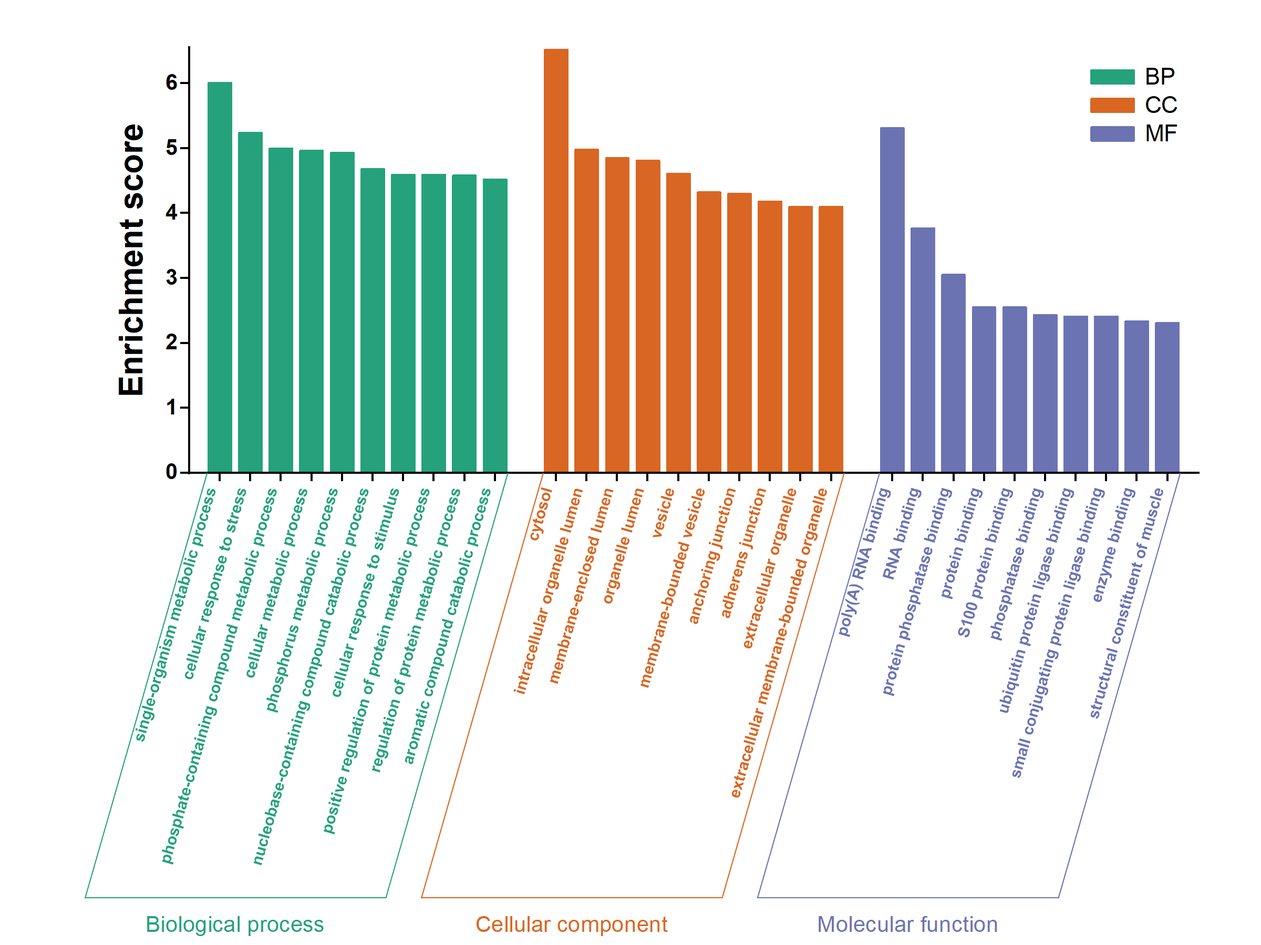
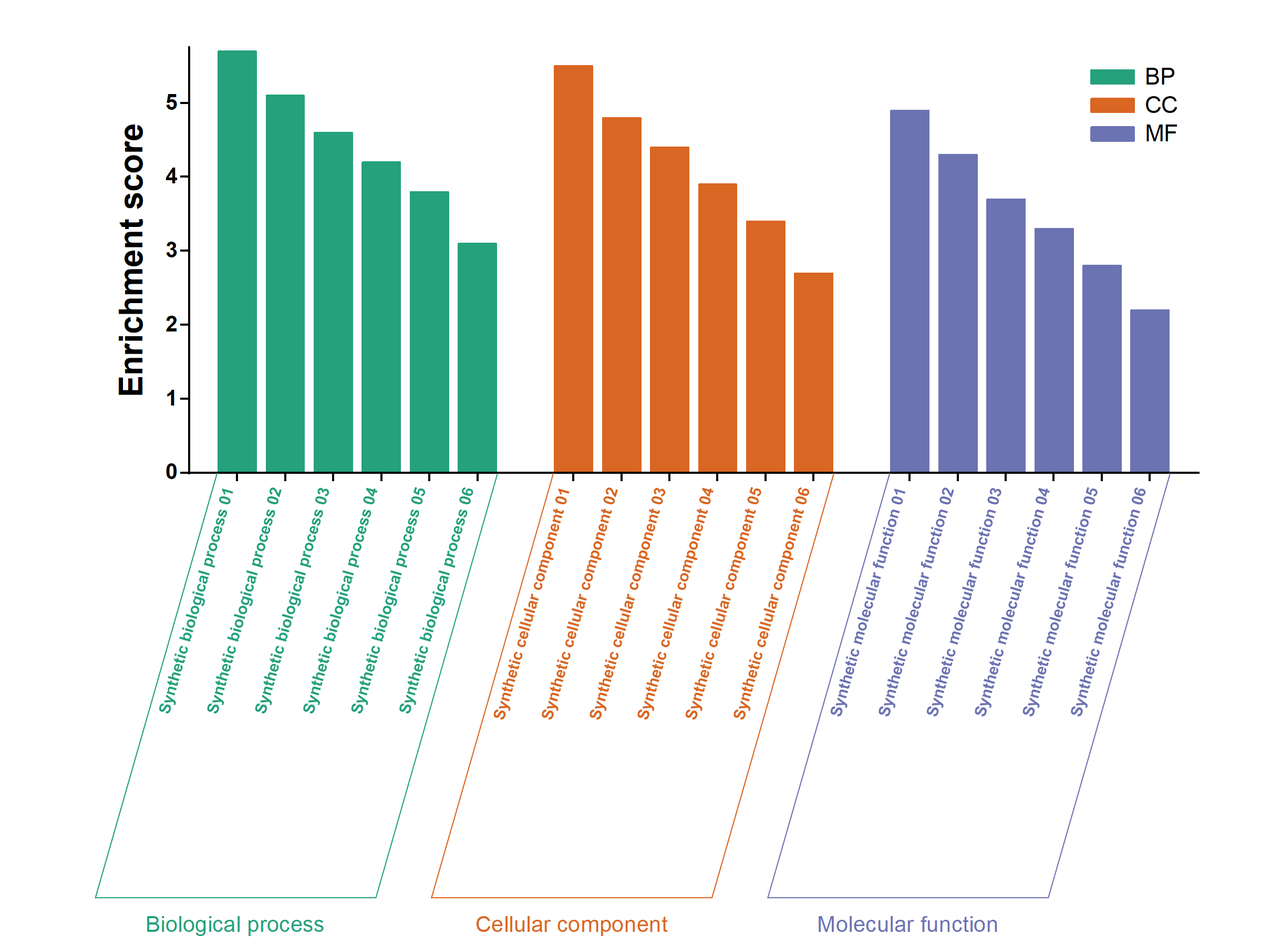
Present general Origin workflows and replace public samples with synthetic data

diff --git a/README.md b/README.md
@@ -1,29 +1,42 @@
 # Origin 可编辑科研作图
 
-把科研数据、参考样式或已有 Origin 图，整理成带有绘图数据、可继续编辑的 Origin / OriginPro 原生项目。
+根据科研数据、参考样式或已有 Origin 项目，创建和修改 **Origin / OriginPro 原生可编辑图**，保留绘图数据，核对数值与样式，并按需要交付独立图页或可在 PowerPoint 中返回 Origin 编辑的对象。
 
 **技能名：`origin-editable-figures`**
 
-![GO enrichment example](examples/go-enrichment/preview.png)
+适用于多种科研图的制作、样式复现和后续编辑。GO 分组柱形图是仓库中的一个可运行示例；技能的工作范围由当前数据、图型和交付要求决定。
 
-## 能做什么
+## 适用任务
 
-- 根据数据和参考图创建原生可编辑图，分别调整数据点、线、误差线、坐标轴、图例和文字。
-- 整理 PCA、t-SNE、UMAP 等科研图，核对坐标、分组、配色与数据来源。
-- 将选定图页拆成独立 OPJU，携带必要数据，并保留已有样式。
-- 按任务需要处理 Origin → PowerPoint 的 OLE 嵌入与回写核验。
-- 保存后重新打开，核验数据绑定并从 Origin 导出预览。
+| 任务 | 提供什么 | 技能处理的重点 |
+| --- | --- | --- |
+| 根据数据和参考图作图 | 数据表、参考图片或原生项目、所需样式 | 核对列和单位，选择原生图型，调整坐标轴、配色、图例和文字 |
+| 散点与降维图 | XY 坐标、样本和分组；需要分析时另提供原始数据与方法 | 样本映射、PCA/t-SNE/UMAP 坐标、点样式及椭圆含义 |
+| 折线、时间序列与 ROC 曲线 | 曲线数据、系列名称和已有统计结果 | 曲线顺序、范围、参照线、单位和指标标签 |
+| 柱形图与误差线 | 类别、数值、分组和误差定义 | 组序、系列颜色、误差范围与长标签；可用于富集结果等数据 |
+| 热图 | 数值矩阵、行列标签、色标要求 | 行列对应、缺失值、色标范围及格内数字的可读性 |
+| 修改或拆分已有图 | 最新保存的 OPJU 和具体修改要求 | 保留用户已有调整，局部修改，或把选定图页另存为独立 OPJU |
+| Origin → PowerPoint | 原生图和组装要求 | Origin OLE 嵌入、实际页面检查及编辑回写；复杂组图可配合 `origin-ppt-assembly` |
 
-参考图片用于指导外观。准确重建数据图需要对应数据；技能没有承诺从任意截图无损恢复原始数据。
+这是供 Codex 使用的技能：它依据当前任务编写或调整 Origin 自动化流程。仓库内的固定脚本覆盖 GO 示例和图页提取，其他图型需要按实际 Origin 接口适配、运行和验收。参考图片提供外观依据；准确绘图仍需要对应数值，不能从任意截图无损恢复原始数据。
+
+## 通常怎样完成一张图
+
+1. **确认数据与样式**：读取数据、分组及单位；从参考图或原生文件确定尺寸、字体、点线、轴和布局。只改样式时保留已有数值和统计结果。
+2. **制作原生图**：把必要数据写入 Origin 项目，建立可分别编辑的数据系列、坐标轴、图例和文字。批量新图先校准代表图。
+3. **查看实际预览并修正**：从 Origin 导出并打开预览，检查长标签、遮挡、裁切和对齐；有具体问题时修改后复查，通过即可结束，没有固定检查轮数。
+4. **重开核验与交付**：重新打开 OPJU，核对数据绑定、图页结构和所需编辑能力，交付文件与必要说明，关闭本任务创建的 Origin 实例。
+
+常见交付为 OPJU、预览图和简短使用说明。独立单图、批量选图页、PPT/OLE 或额外导出格式按任务需要提供。
 
 ## 使用条件
 
 - 可以访问本机文件和桌面软件的 Codex。
 - Windows，以及已安装、可正常运行的 Origin / OriginPro。
 - 用于自动化的 Python 环境，安装 `originpro` 及本任务需要的数据处理依赖。
-- PowerPoint 仅在需要 PPT 嵌入时使用。PPT 文件编辑可配合可用的演示文稿技能；本仓库不捆绑 PowerPoint 或其他技能。
+- PowerPoint 仅在需要 PPT 嵌入时使用。本仓库不捆绑 PowerPoint 或其他技能。
 
-本仓库的 GO 示例在 Windows、OriginPro 2026 和 Python 3.12 上验证。其他版本需要检查实际接口和导出效果。
+已验证的自动化环境包括 Windows、OriginPro 2026、Python 3.12 和 originpro 1.1.15。其他版本需要核对实际接口和导出效果；运行环境验证不等于每一种图型都已在该版本测试。
 
 ## 安装技能
 
@@ -52,73 +65,55 @@ python -m pip install -r requirements.txt
 
 ## 在 Codex 中使用
 
-提供数据文件与参考图，再输入：
+将自己的数据和参考文件提供给 Codex，并描述图型、样式和所需输出。例如：
 
-> 用 `$origin-editable-figures`，根据这份数据和参考图制作可编辑的 Origin 图。保留原始数值和分组，每张图独立成页，保存后重新打开核验。
+> 用 `$origin-editable-figures`，根据这份 XY 数据和分组表，按参考图的配色与布局制作可编辑散点图。保留数值和样本对应关系，每张图独立成页，保存后重新打开核验。
 
-或：
+> 用 `$origin-editable-figures`，把这份曲线数据画成 Origin 折线图，使用参考图的线型、坐标轴和图例。保留曲线原始坐标，并提供实际 Origin 导出预览。
 
-> 用 `$origin-editable-figures`，从这个 OPJU 中将 GraphA 和 GraphB 拆成两个独立文件，保留样式和数据。
+> 用 `$origin-editable-figures`，把这份矩阵制作成可编辑热图。保留行列顺序和数值，按参考图设置色标，并检查长名称与格内数字。
 
-## 运行 GO 柱形图示例
+> 用 `$origin-editable-figures`，仅修改这个 OPJU 的字体和线宽，保留我已经调整的配色、位置和轴范围；然后将 GraphA 和 GraphB 拆成独立文件。
 
-示例数据包含 30 个 GO 条目，BP、CC、MF 各 10 个。数值用于演示作图，不在此执行 GO 富集分析。
+## 质量检查与后续编辑
 
-在仓库目录执行：
+数据正确性、视觉质量和原生可编辑性分别验收。文件保存成功或成功导出 PNG，均不能代替实际看图；PPT 获得 Origin 嵌入对象，也不等于已经验证双击编辑回写。
 
-```powershell
-python scripts/plot_go_enrichment.py --input examples/go-enrichment/demo.csv --validate-only
-python scripts/plot_go_enrichment.py --input examples/go-enrichment/demo.csv --output-dir outputs/go-demo
-```
+配套脚本的 `review_status` 将数据检查与视觉、交互编辑检查分开；未执行的检查保持 `not_tested`。详细检查方法见 [样式、预览与修正](references/visual-quality.md)。[样式记录示例](references/style-profile.example.json)只展示记录格式，不会被绘图脚本自动执行，也不是统一默认版式。
 
-输出：
-
-- `go_enrichment.opju`：一个图页、一个图层、三个原生柱形系列，内嵌数据。
-- `go_enrichment.png`：从重开后的 Origin 项目导出的预览。
-- `verification/verification.json`：数据与图形结构核验记录。
-
-输出目录须为新目录或空目录。更换自己的数据时，支持 `.csv` 和 `.xlsx`，列名为 `GOterm`、`subgroup`、`Enrichment score`。组内保持输入顺序，图中按 BP、CC、MF 排列；不会自动筛选 Top N、重新排序或转换得分。三个分组都需要有数据，各组条目数可以不同。
-
-`--label-size`、`--rotation`、`--page-width`、`--page-height`、`--y-max` 和 `--y-step` 可调整样式。修改条目数或名称长度后，需要检查预览中的文字和分组框。
-
-完整参数：`python scripts/plot_go_enrichment.py --help`。
-
-## 样式与视觉检查
-
-技能按当前参考确定尺寸、字体、点线、配色和布局，先校准代表图，再批量制作。模型需要打开真实导出的预览，针对具体缺陷修正并重新检查；通过即可结束，没有固定检查轮数。小修改沿用已有文件，不重新设计整组图。
-
-脚本的 `review_status` 将数据检查与视觉、交互编辑检查分开：脚本自动通过的数据核验，不会自动把后两项标为通过。成功导出PNG也不代表模型已经查看过它。程序退出状态和 `task_status` 只说明脚本运行情况，完整交付还需相应视觉及编辑验收。
-
-[视觉检查流程](references/visual-quality.md)包含长标签、热图、ROC、散点及组图的检查方向；[样式记录示例](references/style-profile.example.json)用于保存当前任务的参数，不会被绘图脚本自动执行，也不是所有图的默认版式。
+在 Origin 中，可通过图的工作表修改绘图数据，双击数据系列、轴、图例或文字调整对应对象。表名和列用途以当前交付说明为准；预计算坐标或曲线是否随源数据变化自动重算，需要单独确认。PPT 内嵌副本与外部 OPJU 不会自动同步。
 
 ## 自动关闭与并行使用
 
-示例脚本保存、重新打开核验和导出预览后，会关闭自己创建的独立 Origin 实例。核验记录包含该实例的 PID 和 `origin_session.exit_verified`；关闭失败不会报告任务完成。绘图报错、可捕获的 Ctrl+C、核验记录写入失败也会执行清理。需要继续编辑时，重新打开输出的 OPJU 即可。
+配套脚本保存、重开核验并导出预览后，会关闭自己创建的独立 Origin 实例，核查实际退出结果。异常和可捕获的中断也会执行清理；关闭失败不会报告任务完成。
 
-其他项目可同时使用技能，但每个任务需要独立 Python 进程、Origin 实例和输出目录。不会附加或关闭你已打开的 Origin 项目，也不会强制结束未知进程。强制结束 Python 或 COM 卡死仍可能使清理无法执行，详见 [会话管理说明](references/origin-automation.md)。
+其他项目可同时使用技能，每个任务应使用独立 Python 进程、Origin 实例和输出目录。不会附加或关闭已打开的用户项目，也不会强制结束未知进程。强制结束 Python 或 COM 卡死仍可能使清理无法执行，详见 [Origin 自动化与会话管理](references/origin-automation.md)。
 
-更新前保留自己的修改；正在运行的脚本不会自动切换到新代码。已开始的 Codex 对话可能还持有旧说明，下次作图前让它重新读取技能即可，无需中断当前作图。
+更新前保留自己的修改。正在运行的脚本继续使用已加载的代码；已经读取旧技能说明的对话，在下次作图前重新读取即可。
 
-开发者可运行 `python -m unittest discover -s tests -v` 检查异常清理逻辑；这些单元测试不代替实际 Origin 验证。
+## 可运行示例与参考
 
-## 在 Origin 中继续编辑
-
-- `GOData` → `PlotData` 中的 BP / CC / MF 列控制柱高；空白表示该条目不属于相应系列。
-- `Tick label` 列控制横轴显示文字，带有 Origin 颜色格式。保留格式，修改其中的名称即可。
-- `Source` 表是原始输入快照。绘图修改使用 `PlotData` 表。
-- 双击柱形调整系列样式；双击坐标轴调整范围和刻度。分组框、分组名称与纵轴标题均可编辑。
-- 图例关联三个数据系列；外部 OPJU 与 PPT 中的嵌入副本不会自动同步。
-
-## 仓库内容
+- [GO 分组柱形图示例](references/go-enrichment.md)：合成数据、运行命令、原生预览及编辑方法，演示分组柱形图这一种用法。
+- [Origin 自动化](references/origin-automation.md)：独立实例、原生散点与曲线、图页提取、保存后重开核验。
+- [降维、椭圆与选图交付](references/ordination-and-delivery.md)：坐标与样本映射、椭圆含义、本地选图页。
+- [PowerPoint OLE](references/ppt-ole.md)：复制页面、原生嵌入与编辑回写的验证边界。
 
 | 文件或目录 | 用途 |
 | --- | --- |
-| `SKILL.md` | 技能入口与工作规则 |
+| `SKILL.md` | 通用技能入口与工作规则 |
 | `agents/openai.yaml` | Codex 界面名称与调用提示 |
-| `references/` | 原生绘图、降维、GO 示例与 PPT 嵌入说明 |
-| `scripts/plot_go_enrichment.py` | 可配置输入路径的 GO 作图示例 |
-| `scripts/extract_graph_pages.py` | 从已有项目拆出独立图页 |
+| `references/` | 按任务选读的工作方法与示例 |
+| `scripts/extract_graph_pages.py` | 从已有项目提取独立图页 |
 | `scripts/origin_session.py` | 独立实例的关闭、退出核查及异常清理 |
-| `examples/go-enrichment/` | 示例数据和原生导出预览 |
+| `scripts/plot_go_enrichment.py` | GO 分组柱形图的专项示例脚本 |
+| `examples/go-enrichment/` | 合成演示数据和对应的 Origin 原生导出预览 |
+| `tests/` | 会话清理逻辑的单元测试 |
 
-上传版不依赖作者机器的用户名、软件安装目录或研究项目路径。
+开发者可运行 `python -m unittest discover -s tests -v`；单元测试不代替实际 Origin 验证。
+
+## 数据与发布边界
+
+- 当前演示数据使用明确标注的虚构条目和人为设置的数值，不代表真实实验、真实 GO 条目或富集分析结论。
+- 使用自己的数据时，建议把输入、输出和核验记录放在仓库外。OPJU、PPT、预览图和日志也可能包含数据、样本名称或本机路径，需要作为数据文件审查。
+- 账号凭据、API 密钥、环境配置和私人研究文件不应提交到仓库。凭据由使用者在本机配置；技能不要求作者的账号、安装目录或研究项目路径。
+- `.gitignore` 降低误提交风险，不能移除已跟踪文件或 Git 历史内容。分享或更新仓库前检查实际提交文件和示例来源；曾公开的凭据需要撤销，删除当前文件不能使旧凭据失效。

diff --git a/SKILL.md b/SKILL.md
@@ -5,7 +5,7 @@ description: Create, edit, verify, and split native editable Origin/OriginPro OP
 
 # Origin 可编辑科研作图
 
-把科研数据或已有 Origin 图整理成可继续编辑、可核对数据、方便挑选的原生项目。支持根据数据和参考图重建样式；当前用户要求和已有项目约定优先。
+根据科研数据、参考样式或已有 Origin 图创建和修改可继续编辑、可核对数据的原生项目。适用于散点、曲线、柱形/误差图、热图等科研图，以及已有图的样式修改和独立图页交付；具体图型按当前数据和可用 Origin 接口实现并验收。当前用户要求和已有项目约定优先。
 
 ## 默认交付与样式
 
@@ -23,9 +23,9 @@ description: Create, edit, verify, and split native editable Origin/OriginPro OP
 2. 核对样本 ID、行顺序、分组及特征/单位。保留原始输入和来源索引。能复用已验证坐标时直接复用；换数据子集且用户要求重新拟合时才重算，不能简单删掉原图点后声称已重新拟合。
 3. 优先使用本地 Origin 的 `originpro`/COM/LabTalk。批量工作用独立隐藏实例，不干扰用户已打开的项目。先读 [Origin 自动化说明](references/origin-automation.md)，包括运行环境、原生绘图、拆图和重开核验。
 4. PCA/t-SNE/UMAP、置信区间/椭圆或多图选图页任务，再读 [降维、椭圆与交付](references/ordination-and-delivery.md)。仅改外观或拆图时不增加统计分析和参数搜索。
-5. 新产物写入当前项目下清楚命名的输出文件夹。现有源 OPJU 保留；覆盖已有结果须符合当前任务授权。外部运行环境路径、菌属、样本量、特征数和算法参数都从当前项目读取。
+5. 新产物写入当前项目下清楚命名的输出文件夹。现有源 OPJU 保留；覆盖已有结果须符合当前任务授权。外部运行环境路径、数据类别、样本量、特征数和算法参数都从当前项目读取。
 
-GO 富集分组柱形图可参考 [GO 示例说明](references/go-enrichment.md)，使用配套 `scripts/plot_go_enrichment.py`。示例中的布局和配色按当前需求调整，不自动筛选条目、排序或转换得分。
+配套脚本是专项辅助，不是技能支持范围的清单。一般图型根据当前数据结构实现原生绘图，不必转成 GO 的列名或三组布局。只有 GO 富集分组柱形图任务才读 [GO 示例说明](references/go-enrichment.md)，使用 `scripts/plot_go_enrichment.py`；示例中的布局和配色按当前需求调整，不自动筛选条目、排序或转换得分。
 
 ## 视觉质量与有效迭代
 
@@ -50,10 +50,12 @@ GO 富集分组柱形图可参考 [GO 示例说明](references/go-enrichment.md)
 
 通常交付 OPJU、简短中文使用说明和必要的数据。批量选图时加本地 HTML 预览；比较总览按需要另提供，不取代独立图页。只拆几张图时交付几份 OPJU 即可。
 
-不默认创建 ZIP。用户要求清理已有重复压缩包时，先核验压缩内容均有完整解压副本，再只删除明确授权的文件。不要把项目私有数据、旧工作区路径或本机软件安装目录写成此技能的运行依赖。
+不默认创建 ZIP。用户要求清理已有重复压缩包时，先核验压缩内容均有完整解压副本，再只删除明确授权的文件。不要把项目私有数据、旧工作区路径或本机软件安装目录写成此技能的运行依赖。更新或分享技能时，用明确标注的合成数据演示；不把用户的输入数据、交付图、内嵌数据项目、核验日志或凭据当成发布素材，除非用户明确授权公开相应内容。
 
 常见调用：
 
+- “用 `$origin-editable-figures` 根据这份数据和参考样式制作折线图，保留原始坐标。”
+- “用 `$origin-editable-figures` 把这份矩阵做成原生热图，核对行列、色标和标签。”
 - “用 `$origin-editable-figures` 把这些 PCA 图做成能分别编辑的 Origin 项目。”
 - “用 `$origin-editable-figures` 检查为什么这张图粘贴到 PPT 只能成为图片。”
 - “用 `$origin-editable-figures` 将 GraphA、GraphB 拆成两个独立 OPJU。”

diff --git a/references/go-enrichment.md b/references/go-enrichment.md
@@ -1,18 +1,33 @@
 # GO 富集柱形图示例
 
-适用于已有 GO term、分组和 Enrichment score 的数据表。示例只绘图，不执行富集分析，不将得分默认转换为 −log10(P)，不自动筛选条目。
+这是通用 Origin 科研作图技能的一个专项示例，适用于已有 GO term、分组和 Enrichment score 的数据表。其他图型从 [技能入口](../SKILL.md) 按任务处理，无需使用本示例的数据格式。
+
+当前 [demo.csv](../examples/go-enrichment/demo.csv) 包含 18 行人工合成数据，三个分组各 6 行。所有名称以 `Synthetic` 开头，是虚构条目而非真实 GO term；数值人为设置，仅演示布局和数据绑定，不来自研究数据。此示例只绘图，不执行富集分析，不将得分默认转换为 −log10(P)，不自动筛选条目。
+
+![合成数据的 Origin 原生导出预览](../examples/go-enrichment/preview.png)
 
 ## 运行
 
 先检查本机 Origin 和 Python 环境；脚本使用独立隐藏的 Origin 实例。
 
 ```powershell
+python scripts/plot_go_enrichment.py --input examples/go-enrichment/demo.csv --validate-only
 python scripts/plot_go_enrichment.py --input examples/go-enrichment/demo.csv --output-dir outputs/go-demo
 ```
 
+在仓库目录运行，输出目录须为新目录或空目录。生成 `go_enrichment.opju`、从重开后的 Origin 项目导出的 `go_enrichment.png`，以及 `verification/verification.json`。OPJU 包含一个图页、一个图层和三个原生柱形系列，内嵌绘图数据。
+
 输入支持 CSV 和 XLSX。必须包含 `GOterm`、`subgroup`、`Enrichment score`；分组全称为 Biological process、Cellular component、Molecular function。每组至少一行，允许各组条目数不同。同组重复 term、缺失值、非有限得分或负值会报错，不能静默删除。
 
-更多参数见 `--help`。已有独立安装的 originpro 时，可用 `--dependency-path` 指定该包的父目录，无需改动全局 Python。
+组内保持输入顺序，图中按 BP、CC、MF 排列。`--label-size`、`--rotation`、`--page-width`、`--page-height`、`--y-max` 和 `--y-step` 可调整样式；完整参数见 `--help`。已有独立安装的 originpro 时，可用 `--dependency-path` 指定该包的父目录，无需改动全局 Python。
+
+## 在 Origin 中继续编辑
+
+- `GOData` → `PlotData` 中的 BP / CC / MF 列控制柱高；空白表示该条目不属于相应系列。
+- `Tick label` 列控制横轴显示文字，带有 Origin 颜色格式。保留格式，修改其中的名称即可。
+- `Source` 表是输入快照，绘图修改使用 `PlotData` 表。
+- 双击柱形调整系列样式，双击坐标轴调整范围和刻度。分组框、分组名称、纵轴标题与关联系列的图例均可编辑。
+- 外部 OPJU 与 PPT 中的嵌入副本不会自动同步。
 
 ## 已验证的 Origin 细节
 
@@ -23,6 +38,6 @@ python scripts/plot_go_enrichment.py --input examples/go-enrichment/demo.csv --o
 - 三条原生线构成各组底部斜框；分组名称是原生文本。图例使用关联数据系列的 `\l(...)`，保留颜色关联。
 - 保存重开后，标签引用可能显示为完整工作表范围，而绘图对象返回短数据集名称。核验时应比较实际工作表与列的对应，不能仅比较这两种表示的原始字符串。
 
-默认样式来自 30 条目演示：约 240 × 180 mm 页面、74° 标签、BP `#25A17C` / CC `#D96622` / MF `#6C73B2`。它是示例，不应覆盖用户提供的新参考风格。
+脚本默认样式为约 240 × 180 mm 页面、74° 标签、BP `#25A17C` / CC `#D96622` / MF `#6C73B2`。它是示例，不应覆盖用户提供的新参考风格。
 
 脚本会重开核验数据、来源行、标签、颜色和绘图引用，并导出预览。实际视觉检查仍需确认长标签不碰框、各条目清晰、图形不越界。修改点线样式不重新计算统计结果。

diff --git a/references/visual-quality.md b/references/visual-quality.md
@@ -15,7 +15,7 @@
 | 点和线 | 分开散点、数据曲线、轴线、误差线；表达数据的大小/线宽映射不能变成常数 |
 | 配色和顺序 | 绑定实际分组名称、图例顺序和绘制顺序；新数据核查类别是否变了 |
 | 轴及文字 | 记录范围、刻度、单位、变换、精度、长标签处理及文字归属 |
-| 布局与保留区域 | 按实际绘图区对齐，记录需要预留的空间；没有要求就不预留图3的底部一行 |
+| 布局与保留区域 | 按实际绘图区对齐，记录当前要求预留的空间；不沿用其他项目的留白安排 |
 
 截图只能给外观依据，不能精确确定字号、物理尺寸或原始数值；无法测得的参数明确为估计。已确认样式的数值可以复用，换数据时重新检查长标签、极值、组数及密度。样式修订不重算统计、重新排序或改变样本。
 
@@ -59,6 +59,6 @@
 
 记录放在现有核验文件或简短说明中即可。可用三个状态分别记录：`data`、`visual`、`editable` 为 `passed / failed / not_tested`，并附本次检查的文件/页面及已修问题；不要求每次新建复杂报告。所有适用项通过后才报告完整验收通过。
 
-## 图3案例如何复用
+## 复用已确认样式的边界
 
-可复用的是：读取原生参考参数、先校准热图与一张ROC、检查数字格式和长标签、查看整页后解决跨行标题拥挤、最后核对原生编辑能力。该次的七面板、两行三列、26.67×35.56 cm、10/18 pt、配色和约9.7 cm底部留白只属于其已确认需求；不作为新图默认值。对PPT的文字分工、最终缩放和原生嵌入，使用 `origin-ppt-assembly` 的专项流程。
+可复用的是：读取原生参考参数、按图型先校准代表图、检查数字格式和长标签、查看整页后解决标题拥挤、最后核对原生编辑能力。面板数量、排列、物理尺寸、字号、配色和留白属于各任务的具体需求，不能直接作为新图默认值。用户需要PPT组图时，若环境中有 `origin-ppt-assembly`，再使用其文字分工、最终缩放和原生嵌入的专项流程。

diff --git a/references/ordination-and-delivery.md b/references/ordination-and-delivery.md
@@ -48,7 +48,7 @@ c = 2 * F_quantile(0.95; 2, n-1)
 
 对照拼图仅作可选附加，不取代独立图页。只要三张独立 OPJU 时不再复制完整图集或重复压缩包。
 
-图页/文件短名简洁稳定，长标题写方法/条件；维护“短名 → 方法、条件、分组、配置、样本数 → 数据表”的对应表。code1/code3 等含义查当前映射，不硬编码旧项目解释。
+图页/文件短名简洁稳定，长标题写方法/条件；维护“短名 → 方法、条件、分组、配置、样本数 → 数据表”的对应表。缩写和分组名称的含义查当前映射，不硬编码其他项目的解释。
 
 ## HTML 选图页
 
